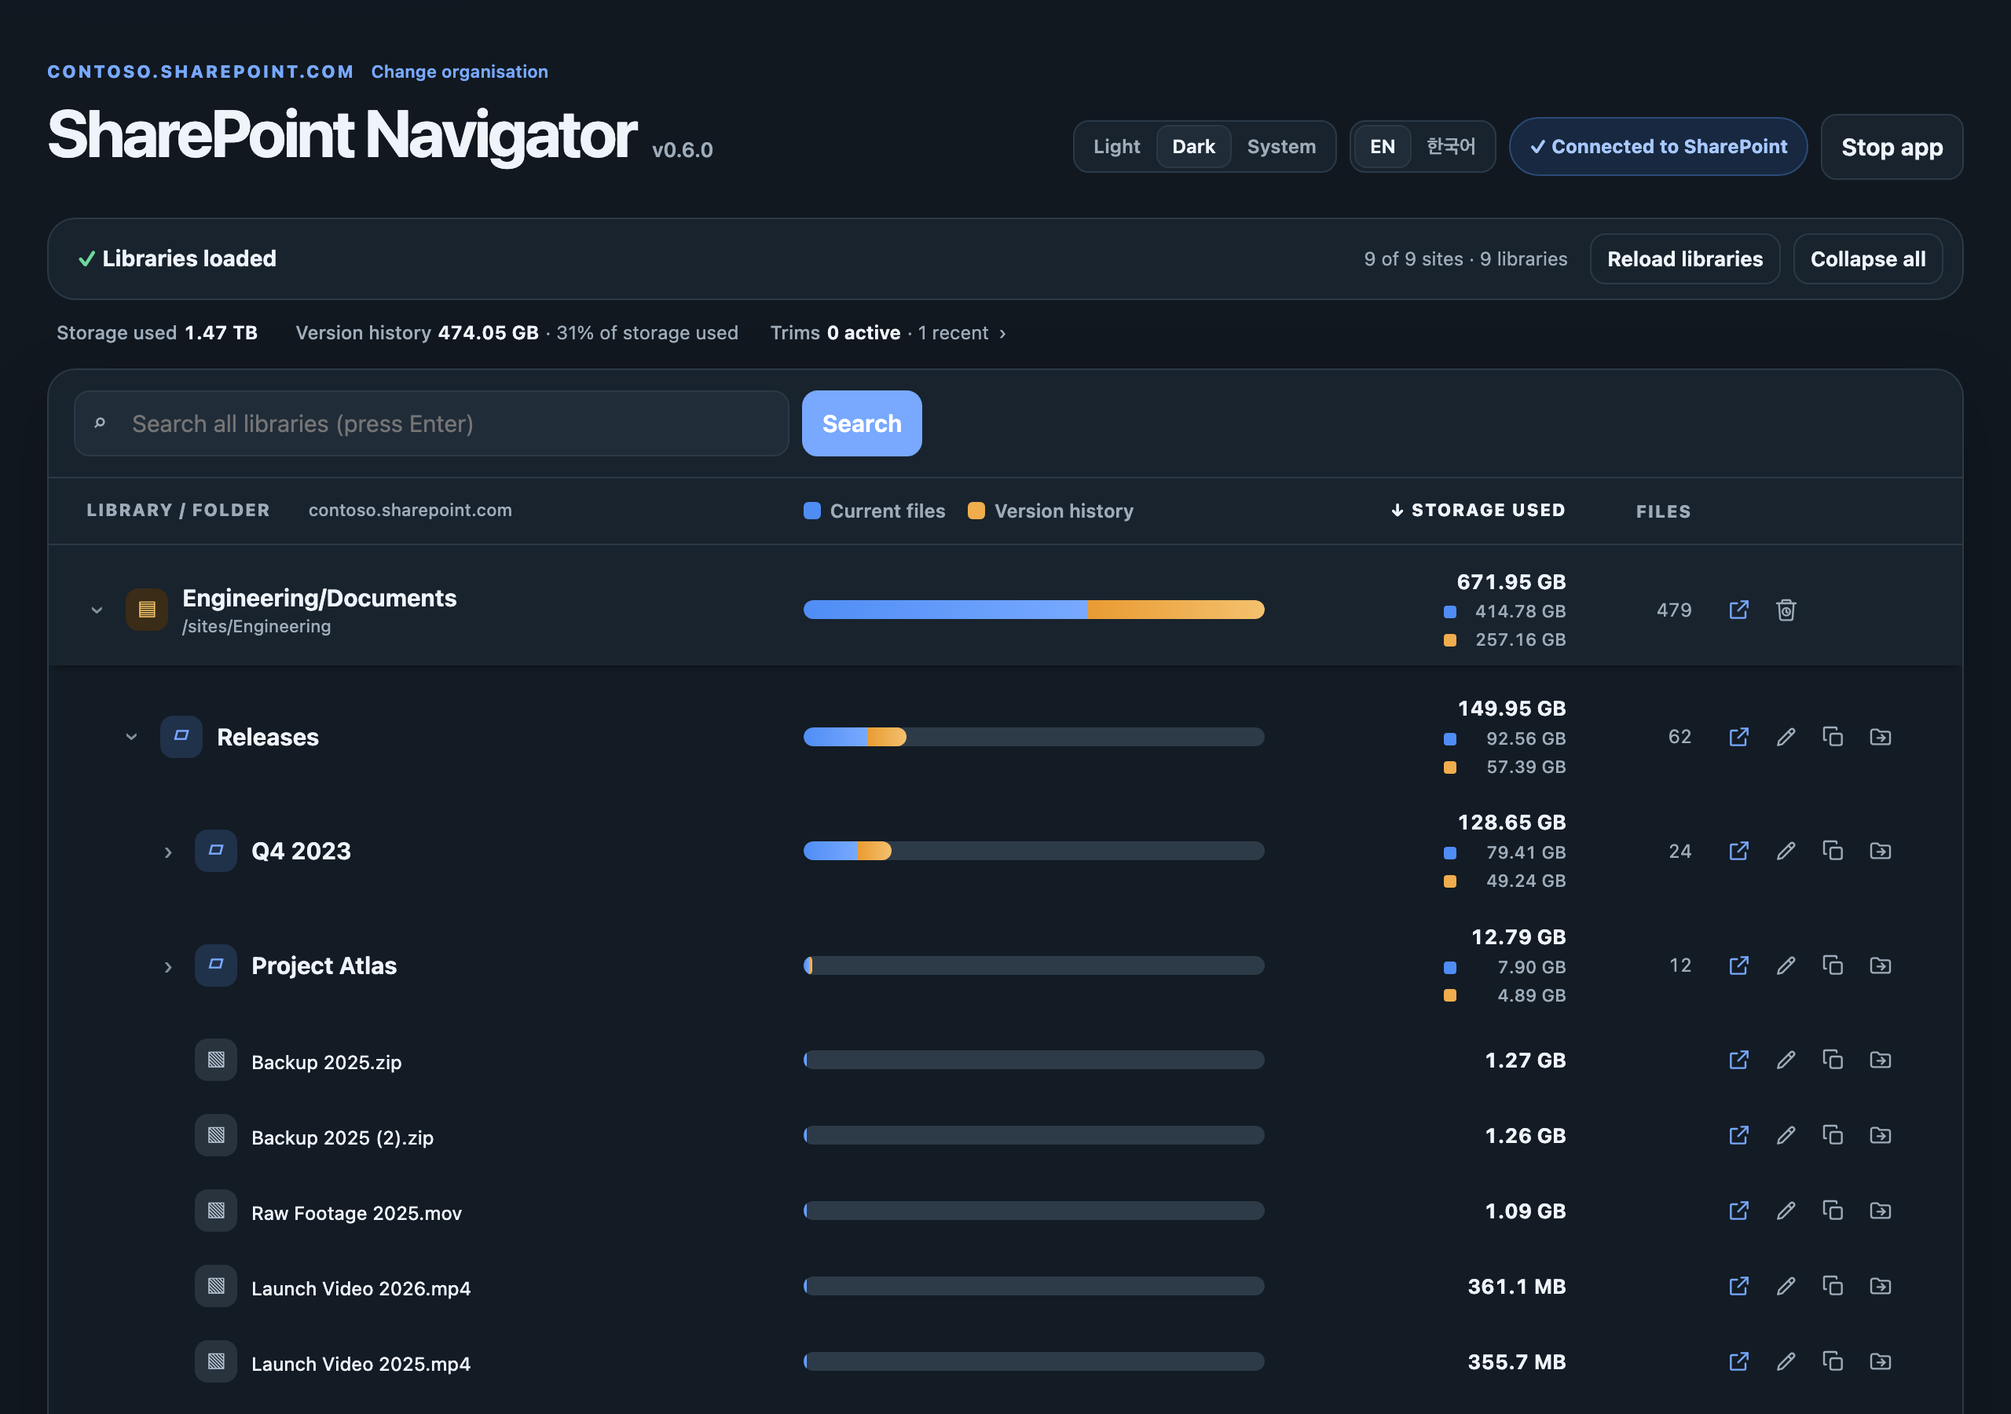
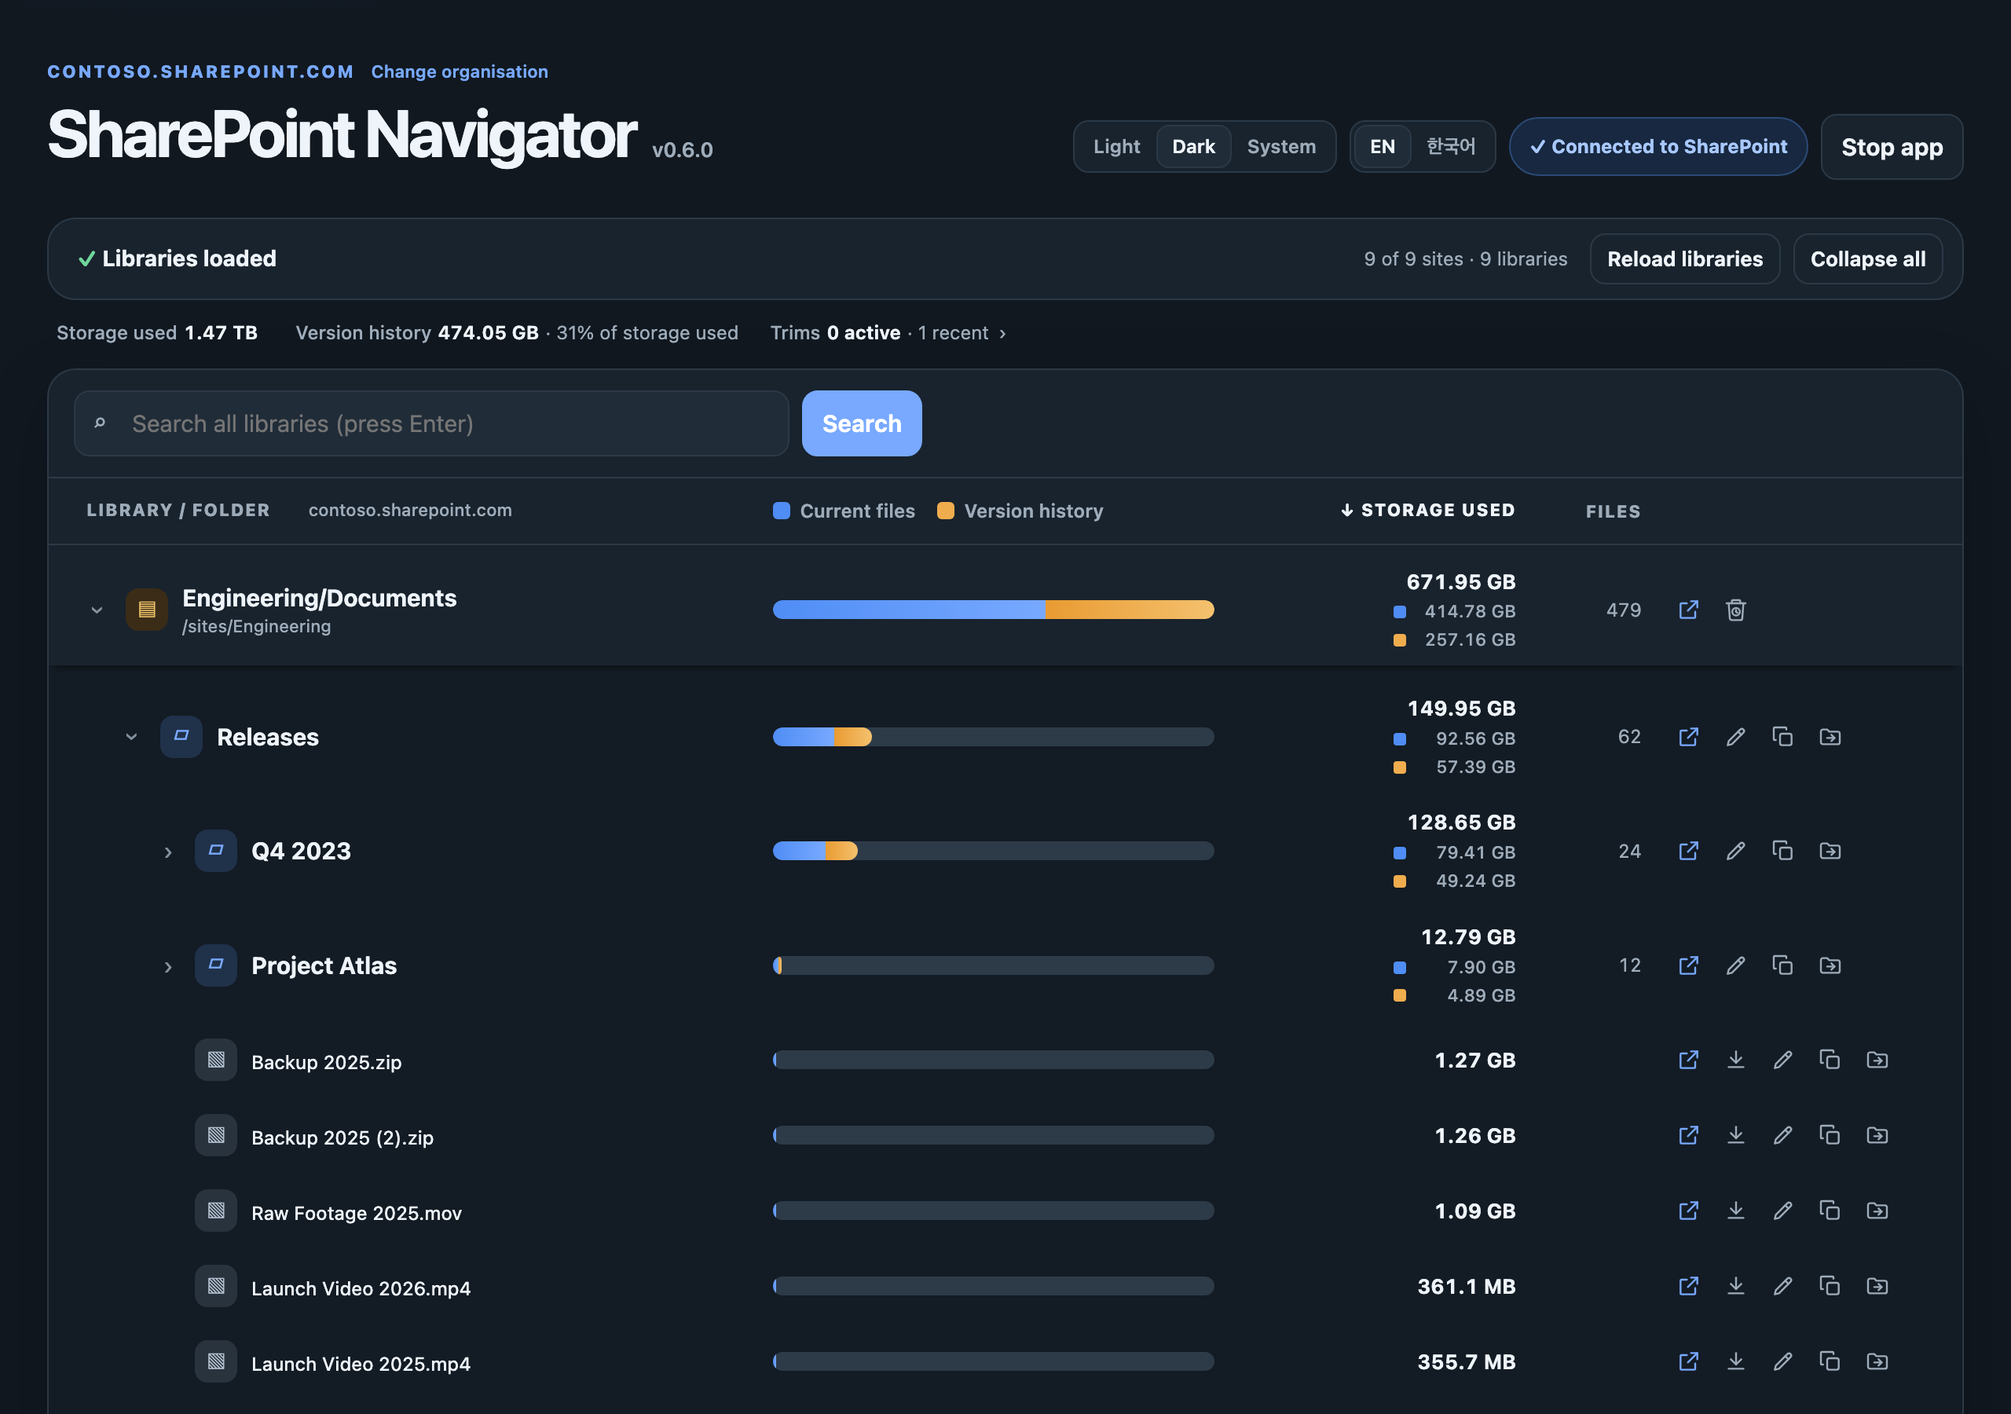
Download button for files in the tree and search results

diff --git a/sharepoint-navigator.html b/sharepoint-navigator.html
@@ -148,7 +148,7 @@
     .legend-swatch.history { background: #f0ad4e; }
     /* ==== Tree grid and rows ==== */
     /* Header and rows share --columns; only the name cell is indented per depth. */
-    .tree-head, .row { --columns: minmax(260px, 1.5fr) minmax(180px, 1fr) 176px 64px 132px; }
+    .tree-head, .row { --columns: minmax(260px, 1.5fr) minmax(180px, 1fr) 176px 64px 164px; }
     /* Tenant address beside "Library / folder": the rows' /sites/... paths continue from it. Kept as typed (no caps). */
     .head-tenant { margin-left: 10px; text-transform: none; letter-spacing: 0; font-weight: 500; }
     .head-tenant:empty { display: none; }
@@ -337,7 +337,7 @@
     .search-summary { color: var(--muted); font-size: 13px; overflow-wrap: anywhere; }
     .search-filters { display: flex; flex-wrap: wrap; gap: 8px 16px; padding: 12px 16px; border-bottom: 1px solid var(--border); }
     /* Same grid idea as the tree: header and rows share --columns. */
-    .search-head, .search-row { --columns: minmax(220px, 1.3fr) minmax(160px, 1fr) 96px 120px 64px; }
+    .search-head, .search-row { --columns: minmax(220px, 1.3fr) minmax(160px, 1fr) 96px 120px 96px; }
     .search-head { display: grid; grid-template-columns: var(--columns); gap: 16px; padding: 10px 24px; color: var(--muted); font-size: 11px; font-weight: 800; letter-spacing: .07em; text-transform: uppercase; border-bottom: 1px solid var(--border); }
     #searchResults { padding: 4px 12px 8px; }
     .search-row { min-height: 42px; }
@@ -869,6 +869,8 @@
           'notice.title': 'About these numbers', 'size.tip': 'Current files: {current} · Version history: {history}',
           'search.button': 'Search', 'search.back': '← Back to libraries',
           'badge.signIn': 'Sign-in needed', 'connect.change': 'Change organisation',
+          'row.download': 'Download', 'row.downloadTitle': 'Download {name}',
+          'row.downloadStarted': 'Downloading {name}…', 'row.downloadFailed': "Couldn't get a download link.",
           'confirm.changeOrg': 'Switch to another organisation? You will sign in again; nothing in SharePoint changes.',
           'connect.setupTitle': 'Connect to your Microsoft 365',
           'connect.setupText': 'Two things your Microsoft 365 admin can tell you. They are saved on this computer, so you are asked only once.',
@@ -993,6 +995,8 @@
           'notice.title': '이 숫자에 대해', 'size.tip': '현재 파일: {current} · 버전 기록: {history}',
           'search.button': '검색', 'search.back': '← 라이브러리로 돌아가기',
           'badge.signIn': '로그인 필요', 'connect.change': '조직 바꾸기',
+          'row.download': '다운로드', 'row.downloadTitle': '{name} 다운로드',
+          'row.downloadStarted': '{name} 다운로드 중…', 'row.downloadFailed': '다운로드 링크를 받지 못했습니다.',
           'confirm.changeOrg': '다른 조직으로 바꿀까요? 다시 로그인하게 되며, SharePoint의 내용은 바뀌지 않습니다.',
           'connect.setupTitle': 'Microsoft 365에 연결',
           'connect.setupText': 'Microsoft 365 관리자에게 받을 수 있는 두 가지입니다. 이 컴퓨터에 저장되므로 한 번만 묻습니다.',
@@ -1493,6 +1497,8 @@
         up: '<path d="M12 19V5"/><path d="M6 11l6-6 6 6"/>',
         folder: '<path d="M3 7a2 2 0 0 1 2-2h4l2 2h8a2 2 0 0 1 2 2v8a2 2 0 0 1-2 2H5a2 2 0 0 1-2-2z"/>',
         chevron: '<path d="M9 6l6 6-6 6"/>',
+        // Arrow into a tray: Download (files only).
+        download: '<path d="M12 4v11"/><path d="M7 10l5 5 5-5"/><path d="M5 19h14"/>',
         // Folder with a magnifier: "Show in tree" (like Finder's Show in Enclosing Folder). Shape after Lucide folder-search (ISC).
         reveal: '<path d="M10.7 20H4a2 2 0 0 1-2-2V5a2 2 0 0 1 2-2h3.9a2 2 0 0 1 1.69.9l.81 1.2a2 2 0 0 0 1.67.9H20a2 2 0 0 1 2 2v4.1"/><circle cx="17" cy="17" r="3"/><path d="M21 21l-1.9-1.9"/>',
         // Trash can with a clock: permanent deletion of old versions. A plain trash can
@@ -1662,6 +1668,8 @@
           link.addEventListener('click', e => e.stopPropagation());
           actionsCell.append(link);
         }
+        // Download: files only, and only with the service.
+        if (node.kind === 'file' && serviceOnline && node.siteUrl && node.path) addDownloadButton(actionsCell, node.siteUrl, node.path, node.name);
         // Rename, Copy, Move: folders and files only, and only with the service.
         if ((node.kind === 'folder' || node.kind === 'file') && serviceOnline) {
           const rename = el('button', 'item-action');
@@ -2932,6 +2940,44 @@
           refreshReportButton.disabled = !serviceOnline;
         }
       }
+      // ---- Download ----
+      // Ask the app for the file's short-lived download address (from Microsoft, valid about an
+      // hour), then let the browser save it. The page stays where it is.
+      function addDownloadButton(target, siteUrl, itemPath, name) {
+        const button = el('button', 'item-action');
+        button.type = 'button';
+        setActionIcon(button, 'download', t('row.download'), t('row.downloadTitle', { name }));
+        button.addEventListener('click', async event => {
+          event.preventDefault();
+          event.stopPropagation();
+          button.disabled = true;
+          try {
+            const response = await fetch('/api/download-link', {
+              method: 'POST',
+              headers: { 'Content-Type': 'application/json', 'X-Local-Token': serviceToken },
+              body: JSON.stringify({ siteUrl, itemPath })
+            });
+            const value = await response.json();
+            if (!response.ok || !value.ok) throw new Error(value.error || t('row.downloadFailed'));
+            const link = document.createElement('a');
+            link.href = value.url;
+            link.download = value.name || name;
+            link.rel = 'noopener';
+            document.body.append(link);
+            link.click();
+            link.remove();
+            $('status').className = 'status success';
+            $('status').textContent = t('row.downloadStarted', { name: value.name || name });
+          } catch (err) {
+            $('status').className = 'status';
+            $('status').textContent = err.message || t('row.downloadFailed');
+          } finally {
+            button.disabled = false;
+          }
+        });
+        target.append(button);
+      }
+
       // ---- Search (all libraries) ----
       // Enter in the search box asks the app for one block of results from SharePoint's search
       // index (/api/search), across every site at once. The results replace the tree until Back,
@@ -3076,7 +3122,9 @@
         open.target = '_blank';
         open.rel = 'noopener noreferrer';
         setActionIcon(open, 'open', t('row.openTitle'), t('row.openTitle'));
-        actions.append(reveal, open);
+        actions.append(reveal);
+        if (!result.isFolder && result.inSiteList) addDownloadButton(actions, result.siteUrl, result.itemPath, result.name);
+        actions.append(open);
         row.append(nameCell, where, size, modified, actions);
         return row;
       }

diff --git a/sharepoint-navigator.py b/sharepoint-navigator.py
@@ -19,6 +19,8 @@ REST, using the same sign-in, fills both gaps:
   PowerShell trim cmdlets. Starting or stopping one uses an AllSites.FullControl token.
   /api/trim-queue reads every site's trim and version-policy job (GetProgressForSetVersionPolicyForDocLibs).
 
+Download: /api/download-link returns Graph's short-lived @microsoft.graph.downloadUrl for one file.
+
 Search: /api/search sends one Graph POST /search/query (Microsoft Search, driveItem hits) across
 every site, read-only and limited to this tenant's SharePoint host. The page lists the hits and can
 open each one or show it in the tree.
@@ -1804,6 +1806,28 @@ def run_server(port: int, tenant: str | None = None, client_id: str | None = Non
                 # -- /api/search: one block of search results across the loaded sites (read-only).
                 if self.path == "/api/search":
                     self.send_json(200, {"ok": True, **run_search(graph, tenant, sites, payload, allowed_sites)})
+                    return
+                # -- /api/download-link: a short-lived download address for one file (read-only).
+                # Graph's @microsoft.graph.downloadUrl is pre-authorised for about an hour, so the
+                # browser can fetch the file without being signed in to SharePoint itself.
+                if self.path == "/api/download-link":
+                    site_url = normalize_site_url(str(payload.get("siteUrl") or ""))
+                    item_path = str(payload.get("itemPath") or "")
+                    if site_url.lower() not in allowed_sites:
+                        raise NavigatorError("The selected site is not in this tenant's loaded site list.")
+                    if not item_path:
+                        raise NavigatorError("The selected file information is incomplete.")
+                    drive, item = inventory.get_item_by_path(site_url, item_path)
+                    if item.get("file") is None:
+                        raise NavigatorError("Only files can be downloaded.")
+                    found = graph.get(f"/drives/{quote(drive['id'], safe='')}/items/{quote(item['id'], safe='')}"
+                                      "?$select=id,name,@microsoft.graph.downloadUrl")
+                    url = str(found.get("@microsoft.graph.downloadUrl") or "")
+                    # Only ever hand the browser a SharePoint https address.
+                    host = (urlsplit(url).hostname or "").lower()
+                    if not url.startswith("https://") or not (host.endswith(".sharepoint.com") or host.endswith(".sharepoint.us")):
+                        raise NavigatorError("SharePoint didn't return a download address for this file.")
+                    self.send_json(200, {"ok": True, "url": url, "name": found.get("name") or item.get("name") or ""})
                     return
                 # -- /api/transfer: copy or move a file or folder within one site.
                 if self.path == "/api/transfer":

diff --git a/tests/test_service.py b/tests/test_service.py
@@ -144,6 +144,8 @@ class FakeTenant:
             value["folder"] = {"childCount": len(self.children(item["id"]))}
         else:
             value["file"] = {"mimeType": "application/octet-stream"}
+            # Graph adds this pre-authorised address to file items (shortened here).
+            value["@microsoft.graph.downloadUrl"] = f"https://{HOST}/_layouts/15/download.aspx?UniqueId={item['id']}&tempauth=x"
         return value
 
     def search_hit(self, item: dict) -> dict:
@@ -710,6 +712,27 @@ class SearchTests(ServiceTest):
     def test_too_deep_paging_is_refused(self):
         self.refused("/api/search", {"query": "x", "from": nav.SEARCH_MAX_FROM}, "Only the first")
 
+
+
+# ---- Download ----
+
+class DownloadTests(ServiceTest):
+    def link(self, item_path, site=ALPHA):
+        return self.call("/api/download-link", {"siteUrl": site, "itemPath": item_path})
+
+    def test_file_gets_a_sharepoint_link(self):
+        status, result = self.link(f"{DOCS}/Folder A/Report.docx")
+        self.assertEqual(status, 200, result)
+        self.assertTrue(result["url"].startswith(f"https://{HOST}/"))
+        self.assertEqual(result["name"], "Report.docx")
+        self.assertEqual(TENANT.graph_patches(), [])          # read-only
+
+    def test_folder_is_refused(self):
+        self.refused("/api/download-link", {"siteUrl": ALPHA, "itemPath": f"{DOCS}/Folder A"}, "Only files")
+
+    def test_site_outside_the_list_is_refused(self):
+        self.refused("/api/download-link", {"siteUrl": f"https://{HOST}/sites/Gamma", "itemPath": "/sites/Gamma/x.txt"},
+                     "not in this tenant's loaded site list")
 
 
 # ---- Tenant and client ID settings (no service needed) ----

diff --git a/tools/demo.py b/tools/demo.py
@@ -179,6 +179,8 @@ class Tenant:
             value["folder"] = {"childCount": len(self.children(item["id"]))}
         else:
             value["file"] = {"mimeType": "application/octet-stream"}
+            # Points nowhere real: the demo has no files to download.
+            value["@microsoft.graph.downloadUrl"] = f"https://{HOST}/_layouts/15/download.aspx?demo={item['id']}"
         return value
 
     def metric(self, item, history):

diff --git a/docs/HISTORY.md b/docs/HISTORY.md
@@ -4,7 +4,7 @@
 
 | Version | Date | Change |
 |---|---|---|
-| 0.6.0 | 2026-11-02 | No terminal window: setup and Microsoft sign-in happen in the browser page. Windowless apps with the app icon: `SharePoint Navigator.app` (macOS, background app) and `SharePoint Navigator.exe` (Windows). Change organisation from the page. 54 offline tests. |
+| 0.6.0 | 2026-11-02 | No terminal window: setup and Microsoft sign-in happen in the browser page. Windowless apps with the app icon: `SharePoint Navigator.app` (macOS, background app) and `SharePoint Navigator.exe` (Windows). Change organisation from the page. Download button for files in the tree and in search results. 57 offline tests. |
 | 0.5.0 | 2026-11-02 | Public on GitHub (MIT) with a product page. First run asks for the tenant and client ID and saves them in the user's folder (`--setup` to change); a client ID file beside the app still wins. GitHub builds macOS and Windows apps on each release. Demo mode with a made-up company for screenshots. 52 offline tests. |
 | 0.4.0 | 2026-11-02 | New: search across all libraries. Enter in the search box searches every site through SharePoint's search index, with site, type, size and date filters and sorting. A Search button sits beside the box. Each result offers Show in tree (folder-with-magnifier icon; opens the folders down to it and highlights it) and Open. The box no longer filters only the loaded rows. 46 offline tests (14 new). |
 | 0.3.2 | 2026-11-01 | Bar parts renamed to "Current files" and "Version history"; rows show both numbers with a coloured square and no words, since the legend at the top names the colours. Trim icon is now a trash can with a clock. Site lines drop the repeated tenant address, which now sits once beside the "Library / folder" header. Sort by clicking column headers; the colour legend sits in the bar column's header. Bars and folder/file icons inside an opened library are visible again in light theme. Rename's name check is one shared method; Move explains a name clash in plain words. Offline tests for the service (32 checks, faked Graph and SharePoint). Files renamed to kebab-case: `sharepoint-navigator.py`, `.command`, `.html`. PowerShell scripts tidied (names and help text only). |
@@ -55,10 +55,17 @@ product page's SVG, turned into `assets/icon.icns` (with Apple's margin) and `as
 `tools/make_icons.py`; the app's tab icon is the same design. On macOS a client ID file is looked for next to the
 .app, not inside it. The release zips keep their names; inside are the new apps (`ditto` zips the .app).
 
+**Download.** The owner asked for a download button in the tree and in search results. Files get a Download
+icon (tree: after Open; search: between Show in tree and Open). It asks the app for Graph's
+`@microsoft.graph.downloadUrl`, a pre-authorised address valid for about an hour, so the browser saves the file
+under its own name even when it isn't signed in to SharePoint. Read-only; only a SharePoint https address is ever
+handed to the browser. Folders get no button: Graph has no simple folder-as-zip download. The action columns
+widened by one icon. New route `/api/download-link`, 3 new tests (file link, folder refused, unknown site refused).
+
 **Pages and docs:** first-launch, install and uninstall steps no longer mention a terminal, and use the new names.
 Switching organisation is "Change organisation" instead of `--setup` (which still works from source).
 
-**Checks.** Offline tests 54/54 (new: setup → code → ready with settings saved, a bad client ID refused,
+**Checks.** Offline tests 57/57 (new: setup → code → ready with settings saved, a bad client ID refused,
 Change organisation stopping a waiting sign-in; settings helpers rewritten). Built the Mac app here: background
 app flag, version and icon in the bundle, signature valid, self-check passes, a second launch reopens the page,
 output in app.log. The demo has `--setup` and `--signin` modes, used to check both new screens in English/Korean

diff --git a/README.md b/README.md
@@ -15,6 +15,7 @@ macOS and Windows · MIT licence. Changes are listed in [docs/HISTORY.md](docs/H
   keeps (orange). One scale for every row: the largest library is 100%.
 - **Search across all sites.** One search through SharePoint's index, with filters for site, type, size and
   date. **Show in tree** opens the folders down to the result and highlights it.
+- **Download** any file from the tree or from search results, without opening SharePoint.
 - **Rename, copy and move** within a library, with a preview and a check that the item hasn't changed meanwhile.
 - **Trim old versions** for a site (Automatic, older than N days, or keep N versions), with a typed
   confirmation and a stop button. Sites with a trim waiting, running or recently finished are marked.
